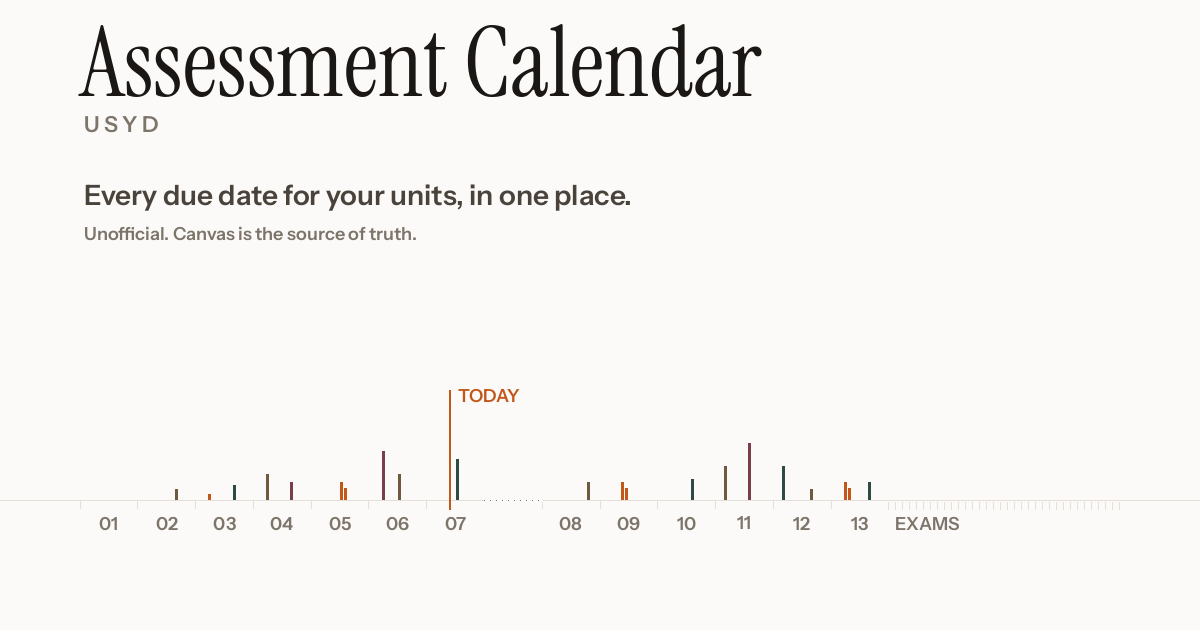
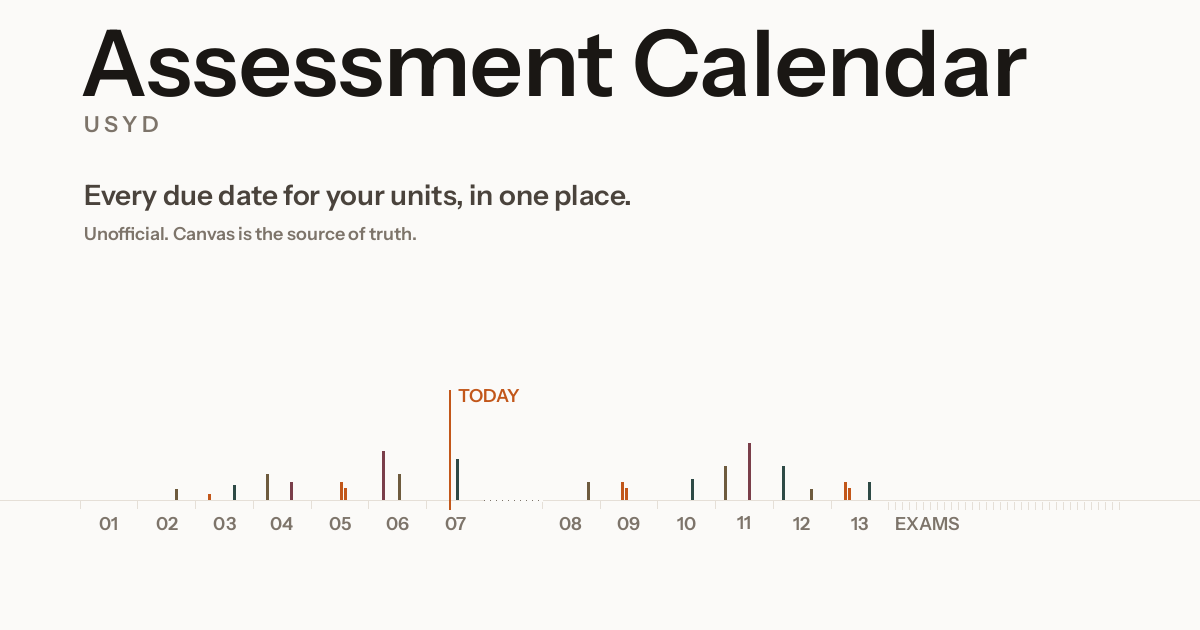
Modified small run to not throw out all data in repo, changed style

Changed region(s): [[0.0617, 0.0302, 0.8633, 0.1508]]

diff --git a/styles.css b/styles.css
@@ -29,7 +29,6 @@
   --s-1: 4px; --s-2: 8px; --s-3: 12px; --s-4: 20px; --s-5: 32px; --s-6: 56px; --s-7: 96px;
 
   --font-sans: "Instrument Sans", "Helvetica Neue", Arial, sans-serif;
-  --font-serif: "Instrument Serif", Georgia, "Times New Roman", serif;
 
   --t-display: clamp(2.75rem, 6vw, 3.5rem);
   --t-h1: 28px;
@@ -117,7 +116,7 @@ a:hover { color: var(--accent-ink); text-decoration-thickness: 1.5px; }
 .num { font-variant-numeric: tabular-nums; }
 
 /* type roles */
-.t-display { font-family: var(--font-serif); font-weight: 400; font-size: var(--t-display); line-height: 1.05; letter-spacing: -0.028em; text-wrap: balance; }
+.t-display { font-weight: 600; font-size: var(--t-display); line-height: 1.05; letter-spacing: -0.03em; text-wrap: balance; }
 .t-h1 { font-size: var(--t-h1); line-height: 1.15; letter-spacing: -0.022em; font-weight: 600; }
 .t-h2 { font-size: var(--t-h2); line-height: 1.25; letter-spacing: -0.016em; font-weight: 600; }
 .t-body { font-size: var(--t-body); line-height: 1.6; font-weight: 400; }
@@ -171,7 +170,7 @@ a:hover { color: var(--accent-ink); text-decoration-thickness: 1.5px; }
 }
 .wordmark { display: flex; flex-direction: column; text-decoration: none; color: inherit; line-height: 1; }
 .wordmark:hover { color: inherit; }
-.wordmark__name { font-family: var(--font-serif); font-size: 24px; line-height: 1.05; letter-spacing: -0.022em; }
+.wordmark__name { font-weight: 600; font-size: 22px; line-height: 1.05; letter-spacing: -0.022em; }
 .wordmark__org { color: var(--ink-500); margin-top: 3px; }
 
 .session-select { display: flex; align-items: center; gap: var(--s-2); }
@@ -345,7 +344,7 @@ a:hover { color: var(--accent-ink); text-decoration-thickness: 1.5px; }
   color: var(--ink-500); font-size: var(--t-small); line-height: 1.45;
   border-top: 1px solid var(--rule-soft); padding-top: var(--s-3); max-width: 34em;
 }
-.disclaimer em { font-family: var(--font-serif); font-style: italic; font-size: 15px; color: var(--ink-700); }
+.disclaimer em { font-style: italic; color: var(--ink-700); }
 .disclaimer strong { font-weight: 600; color: var(--ink-700); }
 
 /* swatch: 8x8, colour from the ladder, shape varies so greyscale still separates units */

diff --git a/404.html b/404.html
@@ -10,7 +10,7 @@
   <link rel="icon" href="/usyd-assignments/favicon.svg" type="image/svg+xml">
   <link rel="preconnect" href="https://fonts.googleapis.com">
   <link rel="preconnect" href="https://fonts.gstatic.com" crossorigin>
-  <link href="https://fonts.googleapis.com/css2?family=Instrument+Sans:ital,wght@0,400..700;1,400&family=Instrument+Serif:ital@0;1&display=swap" rel="stylesheet">
+  <link href="https://fonts.googleapis.com/css2?family=Instrument+Sans:ital,wght@0,400..700;1,400&display=swap" rel="stylesheet">
   <link rel="stylesheet" href="/usyd-assignments/styles.css">
   <script>
     // GitHub Pages serves 404.html from the site root; resolve asset paths for either a

diff --git a/index.html b/index.html
@@ -15,7 +15,7 @@
   <link rel="alternate icon" href="favicon-32.png" sizes="32x32" type="image/png">
   <link rel="preconnect" href="https://fonts.googleapis.com">
   <link rel="preconnect" href="https://fonts.gstatic.com" crossorigin>
-  <link href="https://fonts.googleapis.com/css2?family=Instrument+Sans:ital,wght@0,400..700;1,400&family=Instrument+Serif:ital@0;1&display=swap" rel="stylesheet">
+  <link href="https://fonts.googleapis.com/css2?family=Instrument+Sans:ital,wght@0,400..700;1,400&display=swap" rel="stylesheet">
   <link rel="stylesheet" href="styles.css">
 </head>
 <body>

diff --git a/scraper/build.py b/scraper/build.py
@@ -2,6 +2,9 @@
 
 Writes to a temporary directory and swaps it into place only after every check passes, so a
 broken run never replaces good data.
+
+A partial run (--limit / --codes) merges its units into the existing data/ instead of replacing
+it, so a small test run on top of a full dataset refreshes the units it touched and keeps the rest.
 """
 from __future__ import annotations
 
@@ -145,7 +148,44 @@ def read_previous_meta(data_dir: Path) -> dict | None:
         return None
 
 
-def check_thresholds(stats: dict, partial: bool, previous: dict | None, force: bool) -> list[str]:
+def load_existing_units(data_dir: Path) -> list[dict]:
+    """Read every unit file listed in data/index.json. Missing or broken files are skipped."""
+    index_path = data_dir / "index.json"
+    if not index_path.exists():
+        return []
+    try:
+        index = json.loads(index_path.read_text(encoding="utf-8"))
+    except json.JSONDecodeError:
+        return []
+    units: list[dict] = []
+    for entry in index:
+        rel = entry.get("file", "")
+        # index.json paths are relative to the site root, e.g. "data/units/X.json"
+        name = rel.split("/")[-1]
+        path = data_dir / "units" / name
+        if not path.exists():
+            continue
+        try:
+            units.append(json.loads(path.read_text(encoding="utf-8")))
+        except json.JSONDecodeError:
+            log.warning("skipping unreadable unit file %s", path)
+    return units
+
+
+def merge_units(existing: list[dict], fresh: list[dict], refreshed_codes: set[str]) -> list[dict]:
+    """Overlay fresh units on existing ones.
+
+    Every existing unit whose code was re-scraped in this run is dropped first (so an availability
+    that disappeared from the landing page is removed too), then the fresh units are added.
+    """
+    kept = [u for u in existing if u.get("code") not in refreshed_codes]
+    return kept + list(fresh)
+
+
+def check_thresholds(stats: dict, partial: bool, previous: dict | None, force: bool,
+                     total_units: int | None = None) -> list[str]:
+    """total_units: the number of units that will be on disk after this run (differs from
+    stats["unitsWithCurrentOutline"] when a partial run is merged into existing data)."""
     problems: list[str] = []
     if not partial:
         if stats["unitsDiscovered"] < config.MIN_CODES_DISCOVERED:
@@ -164,9 +204,10 @@ def check_thresholds(stats: dict, partial: bool, previous: dict | None, force: b
             problems.append(f"{zero_ratio:.1%} of outlines parsed to zero assessments (> {config.MAX_ZERO_ASSESSMENT_RATIO:.0%})")
     if previous and not force:
         prev_n = int(previous.get("unitsWithCurrentOutline") or 0)
-        if prev_n and parsed < prev_n * config.MIN_RELATIVE_UNIT_COUNT:
+        after = parsed if total_units is None else total_units
+        if prev_n and after < prev_n * config.MIN_RELATIVE_UNIT_COUNT:
             problems.append(
-                f"new run has {parsed} units vs {prev_n} in the existing data; refusing to overwrite "
+                f"new run would leave {after} units vs {prev_n} in the existing data; refusing to overwrite "
                 f"(pass --force to override)"
             )
     return problems
@@ -225,6 +266,18 @@ def run(args: argparse.Namespace) -> int:
                 log.info("%d/%d codes processed, %d units with outlines, %.0fs elapsed",
                          done, len(codes), stats["unitsWithCurrentOutline"], time.time() - started)
 
+    # A partial run refreshes the units it scraped and keeps everything else already on disk.
+    merged_from_existing = 0
+    scraped_units = units
+    if partial:
+        existing = load_existing_units(data_dir)
+        if existing:
+            before = len(existing)
+            units = merge_units(existing, scraped_units, set(codes))
+            merged_from_existing = len(units) - len(scraped_units)
+            log.info("partial run: merged %d scraped units into %d existing (%d kept, %d total)",
+                     len(scraped_units), before, merged_from_existing, len(units))
+
     weeks = infer_weeks(units, year)
     weeks = apply_override(weeks, data_dir / "weeks.override.json")
 
@@ -236,12 +289,14 @@ def run(args: argparse.Namespace) -> int:
         "targetYear": year,
         "targetSessions": config.TARGET_SESSIONS or sessions,
         "unitsDiscovered": stats["unitsDiscovered"],
-        "unitsWithCurrentOutline": stats["unitsWithCurrentOutline"],
+        "unitsWithCurrentOutline": len(units),
         "assessmentsTotal": assessments_total,
         "assessmentsWithAbsoluteDate": assessments_abs,
         "scraperVersion": config.SCRAPER_VERSION,
         "errors": stats["outlineFetchFailures"] + stats["landingPagesFailed"] + stats["unitsWithZeroAssessments"],
         "partialRun": partial,
+        "unitsScrapedThisRun": len(scraped_units),
+        "unitsKeptFromPreviousRun": merged_from_existing,
         "stats": stats,
         "fetch": {
             "requests": fetcher.stats.requests,
@@ -261,6 +316,8 @@ def run(args: argparse.Namespace) -> int:
         ("Outline fetch failures", stats["outlineFetchFailures"]),
         ("Units with outline parsed", stats["unitsWithCurrentOutline"]),
         ("  of which zero assessments", stats["unitsWithZeroAssessments"]),
+        ("Units kept from previous run", merged_from_existing),
+        ("Units written in total", len(units)),
         ("Assessments total", assessments_total),
         ("  with absolute date", assessments_abs),
         ("HTTP requests / cache hits", f"{fetcher.stats.requests} / {fetcher.stats.cache_hits}"),
@@ -275,7 +332,7 @@ def run(args: argparse.Namespace) -> int:
         print("robots.txt disallowed:", ", ".join(fetcher.stats.skipped_urls[:20]))
 
     previous = read_previous_meta(data_dir)
-    problems = check_thresholds(stats, partial, previous, args.force)
+    problems = check_thresholds(stats, partial, previous, args.force, total_units=len(units))
     if problems:
         print("\nBUILD FAILED — data/ left untouched:", file=sys.stderr)
         for p in problems:

diff --git a/tools/make_og.py b/tools/make_og.py
@@ -1,7 +1,7 @@
 """Generate og.png (1200x630) and favicon-32.png. Reproducible: python tools/make_og.py
 
-Paper background, the wordmark in Instrument Serif at the left, and a rendering of the term
-ruler across the lower third (STYLE-GUIDE §10). Fonts are fetched from Google Fonts into
+Paper background, the wordmark in Instrument Sans (the site's only typeface) at the left, and a
+rendering of the term ruler across the lower third (STYLE-GUIDE §10). Fonts are fetched from Google Fonts into
 tools/fonts/ on first run; if that fails, DejaVu is used so the script still completes.
 """
 from __future__ import annotations
@@ -24,7 +24,6 @@ ACCENT = (194, 87, 26)
 LADDER = [(194, 87, 26), (110, 91, 62), (46, 74, 70), (122, 62, 74), (61, 70, 104)]
 
 FONTS = {
-    "serif": ("Instrument Serif", "https://fonts.googleapis.com/css2?family=Instrument+Serif&display=swap"),
     "sans": ("Instrument Sans", "https://fonts.googleapis.com/css2?family=Instrument+Sans:wght@400;600&display=swap"),
 }
 
@@ -54,7 +53,7 @@ def load(kind: str, size: int) -> ImageFont.FreeTypeFont:
     p = fetch_font(kind)
     if p:
         return ImageFont.truetype(str(p), size)
-    fallback = "DejaVuSerif.ttf" if kind == "serif" else "DejaVuSans.ttf"
+    fallback = "DejaVuSans.ttf"
     for cand in (Path("/usr/share/fonts/truetype/dejavu") / fallback,):
         if cand.exists():
             return ImageFont.truetype(str(cand), size)
@@ -112,11 +111,11 @@ def draw_ruler(d: ImageDraw.ImageDraw, x0: int, x1: int, base_y: int, sans_small
 def make_og(out: Path) -> None:
     img = Image.new("RGB", (1200, 630), PAPER)
     d = ImageDraw.Draw(img)
-    serif = load("serif", 96)
+    title = load("sans", 92)
     sans_label = load("sans", 22)
     sans_small = load("sans", 18)
     sans_body = load("sans", 28)
-    d.text((80, 96), "Assessment Calendar", fill=INK_900, font=serif, anchor="ls")
+    d.text((80, 96), "Assessment Calendar", fill=INK_900, font=title, anchor="ls")
     d.text((84, 132), "U S Y D", fill=INK_500, font=sans_label, anchor="ls")
     d.text((84, 205), "Every due date for your units, in one place.", fill=(74, 67, 60), font=sans_body, anchor="ls")
     d.text((84, 240), "Unofficial. Canvas is the source of truth.", fill=INK_500, font=sans_small, anchor="ls")

diff --git a/scraper/tests/test_build.py b/scraper/tests/test_build.py
@@ -54,3 +54,31 @@ def test_swap_preserves_override_and_replaces_old(tmp_path: Path):
     assert (data / "weeks.override.json").read_text() == '{"x": 1}'
     assert not new.exists()
     assert not (tmp_path / "data.previous").exists()
+
+
+def test_relative_guard_uses_total_after_merge():
+    prev = {"unitsWithCurrentOutline": 3000}
+    small = _stats(unitsDiscovered=200, unitsWithCurrentOutline=177, outlineFetchAttempts=177,
+                   outlineFetchFailures=0, unitsWithZeroAssessments=2)
+    # a 177-unit partial run merged into 3000 existing units must not trip the guard
+    assert build.check_thresholds(small, partial=True, previous=prev, force=False, total_units=3050) == []
+    # but a partial run that would genuinely leave the dataset thin still does
+    p = build.check_thresholds(small, partial=True, previous=prev, force=False, total_units=177)
+    assert any("refusing to overwrite" in x for x in p)
+
+
+def _unit(code, avail, name="n"):
+    return {"code": code, "availability": avail, "name": name, "session": "S1C", "sessionLabel": "",
+            "mode": "", "location": "", "assessments": []}
+
+
+def test_merge_replaces_rescraped_codes_and_keeps_the_rest(tmp_path: Path):
+    data = tmp_path / "data"
+    build.write_output(data, [_unit("AAAA1001", "2026-S1C-ND-CC", "old"),
+                              _unit("AAAA1001", "2026-S2C-ND-CC", "old"),
+                              _unit("BBBB2002", "2026-S1C-ND-CC", "keep")], {}, {})
+    existing = build.load_existing_units(data)
+    assert len(existing) == 3
+    merged = build.merge_units(existing, [_unit("AAAA1001", "2026-S1C-ND-CC", "new")], {"AAAA1001"})
+    by_key = {(u["code"], u["availability"]): u["name"] for u in merged}
+    assert by_key == {("AAAA1001", "2026-S1C-ND-CC"): "new", ("BBBB2002", "2026-S1C-ND-CC"): "keep"}

diff --git a/DEPLOY.md b/DEPLOY.md
@@ -113,6 +113,9 @@ everything works end to end, then do the full one.
 
 When the dot turns into a green tick, the run succeeded. If it shows a red cross, jump to Part 6.
 
+A limited run like this does not throw away the data already in the repository. The units it
+scraped are refreshed and every other unit is kept, so the site stays complete while you test.
+
 Check that the data was committed: click the **Code** tab. The most recent commit at the top of
 the file list should be from **scraper-bot** and titled `data: refresh 2026-...`. Click into
 `data/` and confirm `meta.json` has today's date in `generatedAt`.
@@ -172,8 +175,9 @@ parser, push, and rerun.
 Read the bullet points under it. Each names the threshold that tripped, for example "only 412
 units with a current outline (< 500)". Early in a semester, before outlines are published, a
 full run can legitimately find too few outlines; wait until two weeks before teaching starts and
-rerun. If a run found far fewer units than the previous data and you are sure that is expected,
-rerun with the **force** input set to `yes`.
+rerun. If a full run found far fewer units than the previous data and you are sure that is
+expected, rerun with the **force** input set to `yes`. (A limited test run never trips this
+check on its own, because it is merged into the existing data rather than replacing it.)
 
 **The run is red on the "Commit data" step with a permissions error.**
 Part 2 was skipped. Set **Workflow permissions** to **Read and write permissions** and rerun.

diff --git a/README.md b/README.md
@@ -62,6 +62,7 @@ pip install -r scraper/requirements.txt
 python -m pytest scraper/tests -q                       # parser tests against saved fixtures
 python -m scraper.build --codes AMME2200,ELEC3204       # a few units, for development
 python -m scraper.build --limit 300                     # first 300 codes from discovery
+# --codes and --limit runs are merged into an existing data/ (only the scraped units change)
 python -m scraper.build                                 # full run, roughly 1.5 to 2.5 hours
 ```
 
